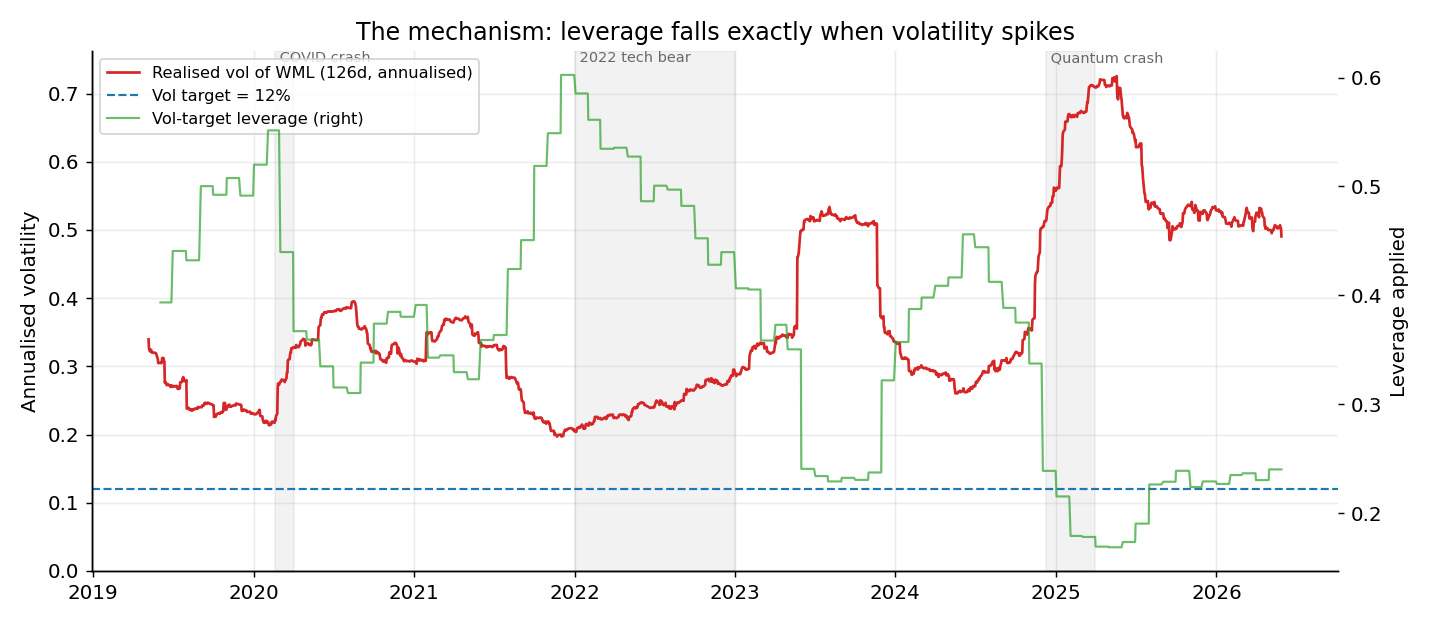
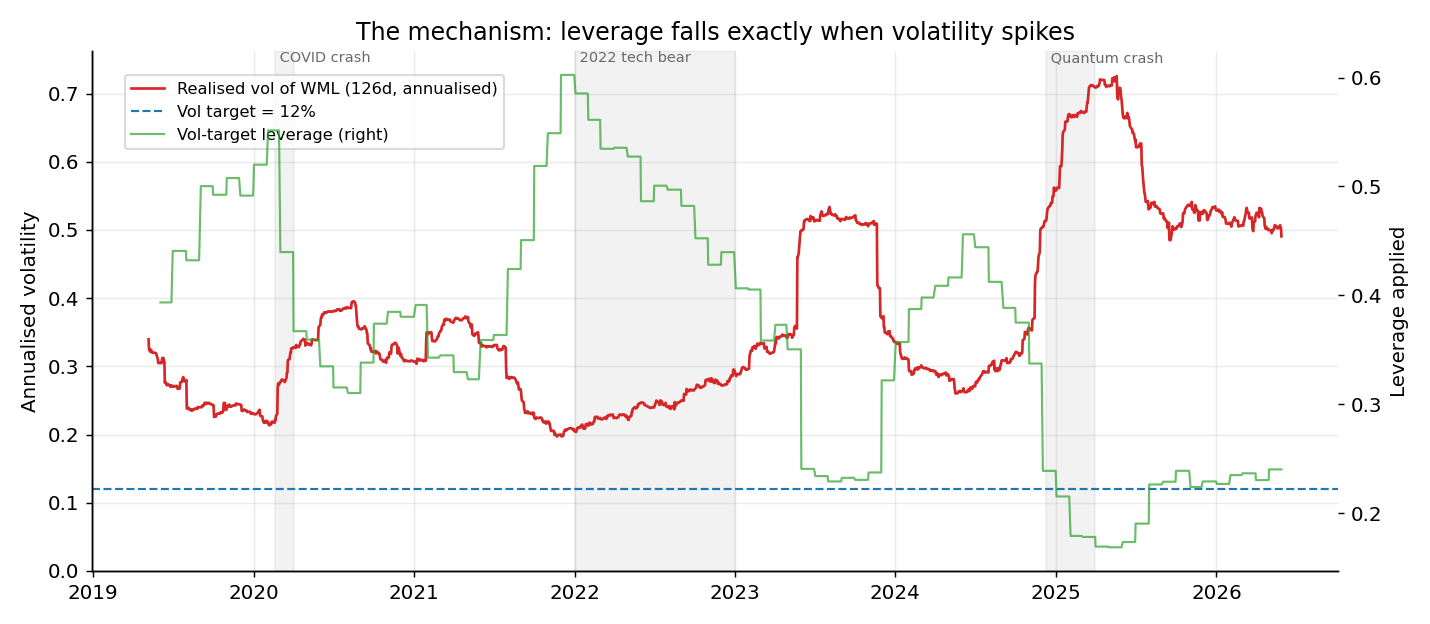
Finalize momentum crash analysis and conclusions

Changed region(s): [[0.0615, 0.0913, 0.3692, 0.2436]]

diff --git a/make_charts.py b/make_charts.py
@@ -94,7 +94,7 @@ def chart_vol_leverage(diag):
     shade_crashes(ax1)
     l1, lab1 = ax1.get_legend_handles_labels()
     l2, lab2 = ax2.get_legend_handles_labels()
-    ax1.legend(l1 + l2, lab1 + lab2, loc="upper left", fontsize=9)
+    ax1.legend(l1 + l2, lab1 + lab2, loc="upper left", bbox_to_anchor=(0.02, 0.97), fontsize=9)
     fig.savefig(os.path.join(OUT, "fig3_vol_leverage.png"))
     plt.close(fig)
 
@@ -106,7 +106,7 @@ def chart_crash_zoom(results, px):
         2, 1, figsize=(11, 7.4), sharex=True,
         gridspec_kw={"height_ratios": [1.0, 1.0]})
 
-    # --- Top: the underlying sector boom & bust (context / the "why") ---
+    # --- Top: the underlying sector boom & bust (context / the "why")
     pure = [t for t in qm.UNIVERSE["pure_play_quantum"] if t in px.columns]
     pp = px[pure].pct_change().loc[a:b].mean(axis=1)
     pp_eq = (1 + pp.fillna(0)).cumprod(); pp_eq /= pp_eq.iloc[0]
@@ -116,10 +116,12 @@ def chart_crash_zoom(results, px):
     axT.set_ylabel("Growth of 1\n(rebased Nov 2024)")
     axT.set_title("The quantum momentum crash, up close")
     axT.legend(loc="upper left", fontsize=9)
-    axT.annotate(f"Pure-plays ~{pp_eq.max():.0f}x\n(Rigetti +1,654%/yr,\nGoogle 'Willow')",
-                 xy=(pp_eq.idxmax(), pp_eq.max()*0.85), fontsize=8, color="purple", ha="center")
+    annotate_x = pp_eq.idxmax() - pd.Timedelta(days=12)
+    annotate_y = pp_eq.max() * 0.70
+    axT.annotate(f"Pure-plays ~{pp_eq.max():.0f}x\n(Rigetti +1,650%/yr,\nGoogle Willow)",
+                 xy=(annotate_x, annotate_y), fontsize=8, color="purple", ha="center")
 
-    # --- Bottom: what it did to the momentum strategies (consistent rebasing) ---
+    # --- Bottom: what it did to the momentum strategies (consistent rebasing)
     eqs = {}
     for name in ["WML (long-short, gross)", "WML + Vol-target", "Benchmark (QTUM)"]:
         r = results[name].loc[a:b]
@@ -133,7 +135,7 @@ def chart_crash_zoom(results, px):
     wml_dd = wml_eq.min() - 1.0
     vt_at = eqs["WML + Vol-target"].loc[trough] - 1.0
     axB.set_ylabel("Growth of 1\n(rebased Nov 2024)")
-    axB.legend(loc="lower left", fontsize=9)
+    axB.legend(loc="lower left", bbox_to_anchor=(0.01, 0.15), fontsize=9)
     axB.set_title(f"At the trough ({trough.date()}): naive WML {wml_dd:.0%} vs crash-protected {vt_at:.0%}")
     # Two-phase annotation
     axB.axvspan(pd.Timestamp("2024-11-01"), pd.Timestamp("2024-12-31"), color="orange", alpha=0.08)
@@ -159,7 +161,7 @@ def main():
     chart_drawdown(results)
     chart_vol_leverage(diag)
     chart_crash_zoom(results, px)
-    print("[charts] wrote fig1..fig4 to", OUT)
+    print("[charts] charts generated")
 
 
 if __name__ == "__main__":

diff --git a/quantum_momentum.py b/quantum_momentum.py
@@ -27,7 +27,8 @@ Design notes
   with data available up to month-end t.
 * Survivorship / selection bias: the universe is built from names known to be
   relevant TODAY, so it is forward-looking. Pure-plays only enter when listed
-  (unbalanced panel). These limitations are disclosed in 'Quantum_Momentum.ipynb'.
+  (unbalanced panel).
+* Limitations are disclosed in 'Quantum_Momentum.ipynb'.
 """
 
 from __future__ import annotations
@@ -58,7 +59,7 @@ VOL_TARGET = 0.12                 # annualised target vol for WML (Barroso-Santa
 VOL_TARGET_LONGONLY = 0.25        # annualised target vol for the long-only portfolio (more aggressive, since no short leg)
 VOL_LOOKBACK_D = 126              # ~6 months of trading days for realised vol
 MAX_LEVERAGE = 2.0                # cap on vol-target leverage
-RF_ANNUAL = 0.0                   # risk-free assumed 0 (disclosed); Sharpe = excess/vol
+RF_ANNUAL = 0.0                   # risk-free assumed 0 (disclosed); Sharpe = excess/vol 
 TRADING_DAYS = 252
 
 BENCHMARK = "QTUM"                # Defiance Quantum ETF - sector benchmark
@@ -114,10 +115,10 @@ def run_backtest(px: pd.DataFrame):
     m_px = stocks_px.resample("ME").last()
     signal = m_px.shift(SKIP) / m_px.shift(LOOKBACK) - 1.0   # known at each month-end t
 
-    # Daily simple returns of every stock (for daily P&L accounting)
+    # Daily simple percentage returns of every stock (for daily P&L accounting)
     d_ret = stocks_px.pct_change()
 
-    form_dates = m_px.index[(m_px.index >= pd.Timestamp(BACKTEST_START))]
+    form_dates = m_px.index[(m_px.index >= pd.Timestamp(BACKTEST_START))]   # formation dates (month-ends)
     daily_index = stocks_px.index
 
     wml_daily, long_daily = {}, {}     # date -> return
@@ -143,8 +144,8 @@ def run_backtest(px: pd.DataFrame):
 
         hold_days = daily_index[(daily_index > f) & (daily_index <= nxt)]
         for d in hold_days:
-            w_ret = d_ret.loc[d, winners].dropna()
-            l_ret = d_ret.loc[d, losers].dropna()
+            w_ret = d_ret.loc[d, winners].dropna()   # daily average profit of winners (Long bet)
+            l_ret = d_ret.loc[d, losers].dropna()    # daily average profit of losers (Short bet)
             if len(w_ret) == 0:
                 continue
             long_leg = w_ret.mean()
@@ -158,7 +159,7 @@ def run_backtest(px: pd.DataFrame):
     # ---- Vol-targeting overlay (Barroso-Santa-Clara)
     # Reusable: scale a gross daily-return series by leverage L_f fixed at each
     # formation date f, where L_f = target / sigma_hat_f, capped. sigma_hat is the
-    # trailing ~126-day realised vol (lagged 1 day) -> uses only past information.
+    # trailing ~126-day realised vol (lagged 1 day) -> uses only past information
     def apply_vol_target(gross: pd.Series, target: float):
         sigma_hat = gross.rolling(VOL_LOOKBACK_D).std().shift(1) * np.sqrt(TRADING_DAYS)
         leverage = (target / sigma_hat).clip(upper=MAX_LEVERAGE)